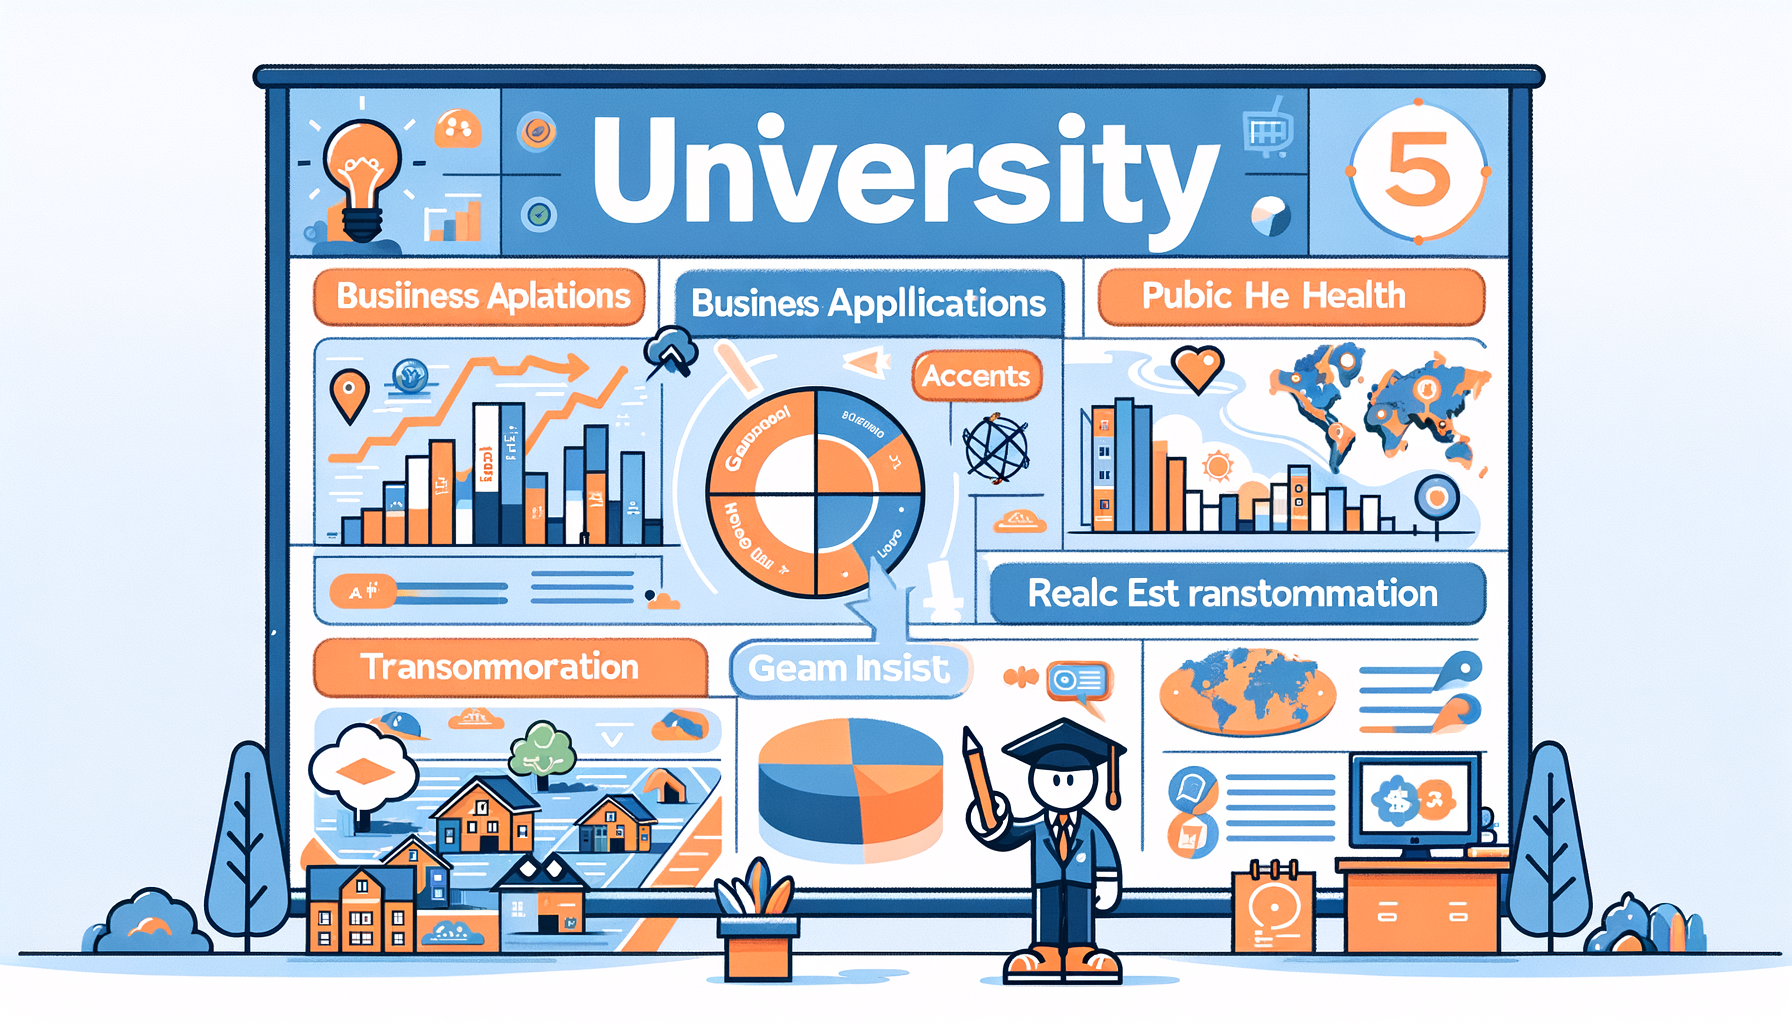
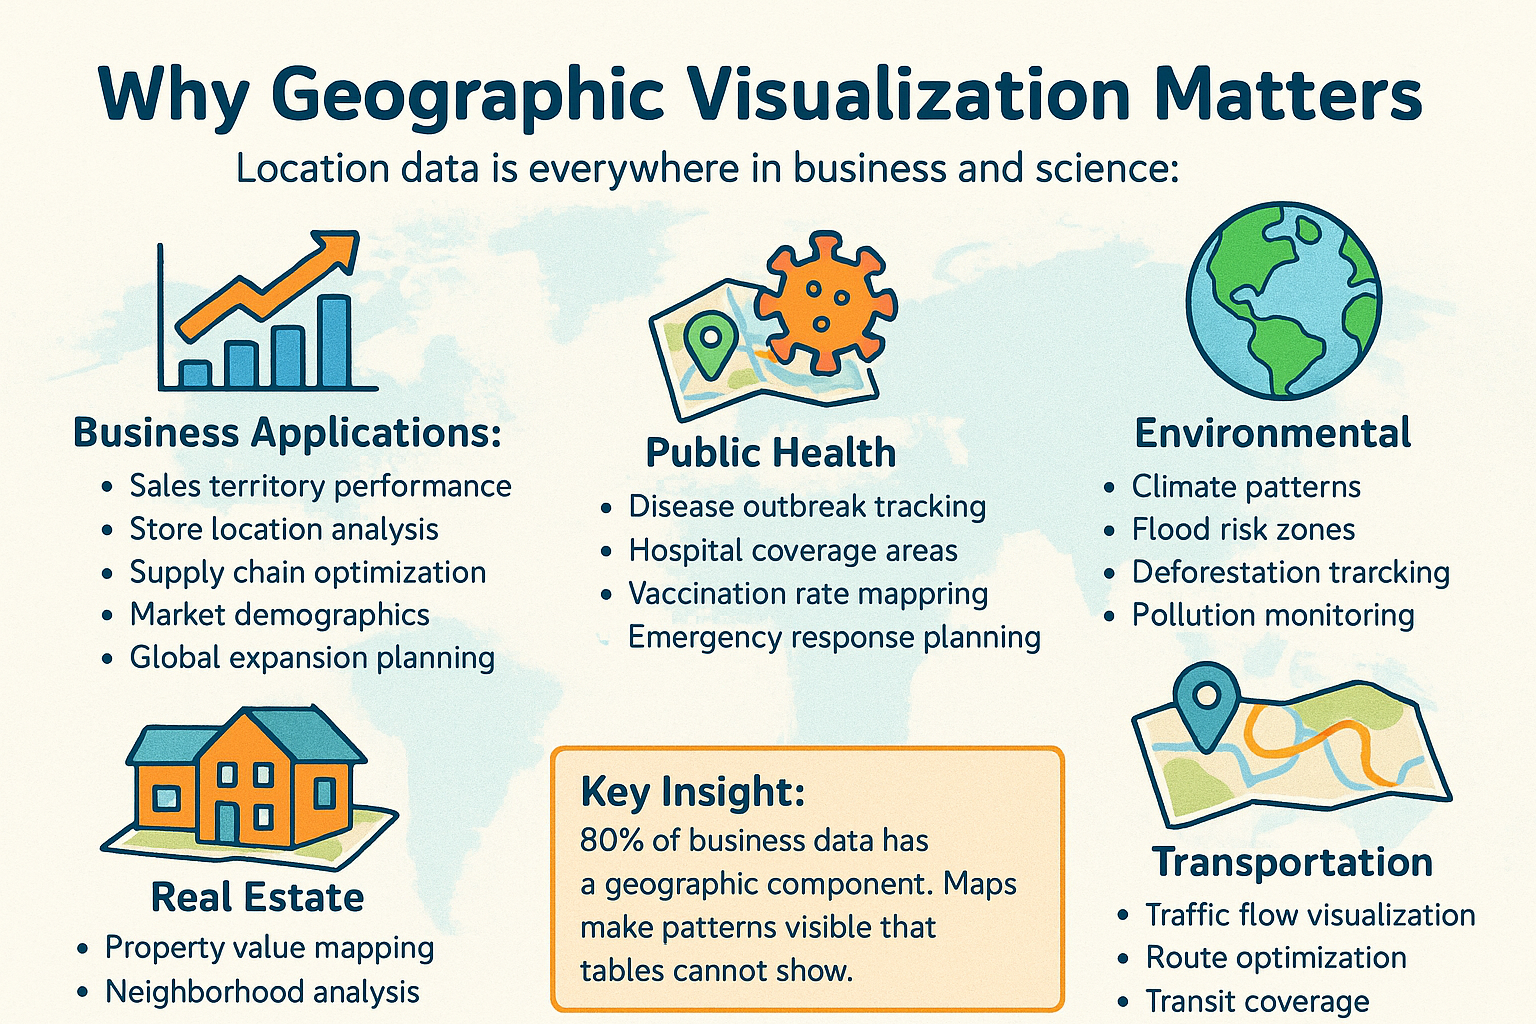
Generate Slide 3 using gpt-image-1 model with playful academic cartoon style

diff --git a/Class6/generate_final_slide3.py b/Class6/generate_final_slide3.py
@@ -110,24 +110,37 @@ Style reference: Think Coursera or Khan Academy - educational, friendly, profess
     print()
     
     response = client.images.generate(
-        model="dall-e-3",
+        model="gpt-image-1",
         prompt=image_prompt,
-        size="1792x1024",
-        quality="hd",  # Use HD quality for better text rendering
+        size="1536x1024",  # 16:9 landscape format supported by gpt-image-1
+        quality="high",  # Use high quality for better text rendering
         n=1
     )
     
-    image_url = response.data[0].url
+    # gpt-image-1 returns b64_json instead of URL
+    import base64
     
     print(f"✅ Image generated successfully!")
-    print(f"🖼  URL: {image_url}")
     
     # Download image
     output_file = 'Class6/slide_images/slide_003_final.png'
     os.makedirs('Class6/slide_images', exist_ok=True)
     
-    print(f"\n📥 Downloading image...")
-    subprocess.run(['curl', '-s', '-o', output_file, image_url], check=True)
+    print(f"\n📥 Saving image...")
+    
+    # Check if we have URL or b64_json
+    if hasattr(response.data[0], 'url') and response.data[0].url:
+        image_url = response.data[0].url
+        print(f"🖼  URL: {image_url}")
+        subprocess.run(['curl', '-s', '-o', output_file, image_url], check=True)
+    elif hasattr(response.data[0], 'b64_json') and response.data[0].b64_json:
+        # Decode base64 image
+        image_data = base64.b64decode(response.data[0].b64_json)
+        with open(output_file, 'wb') as f:
+            f.write(image_data)
+        image_url = "Generated as base64 (no URL)"
+    else:
+        raise ValueError("No image data in response")
     
     print(f"✅ Saved to: {output_file}")
     
